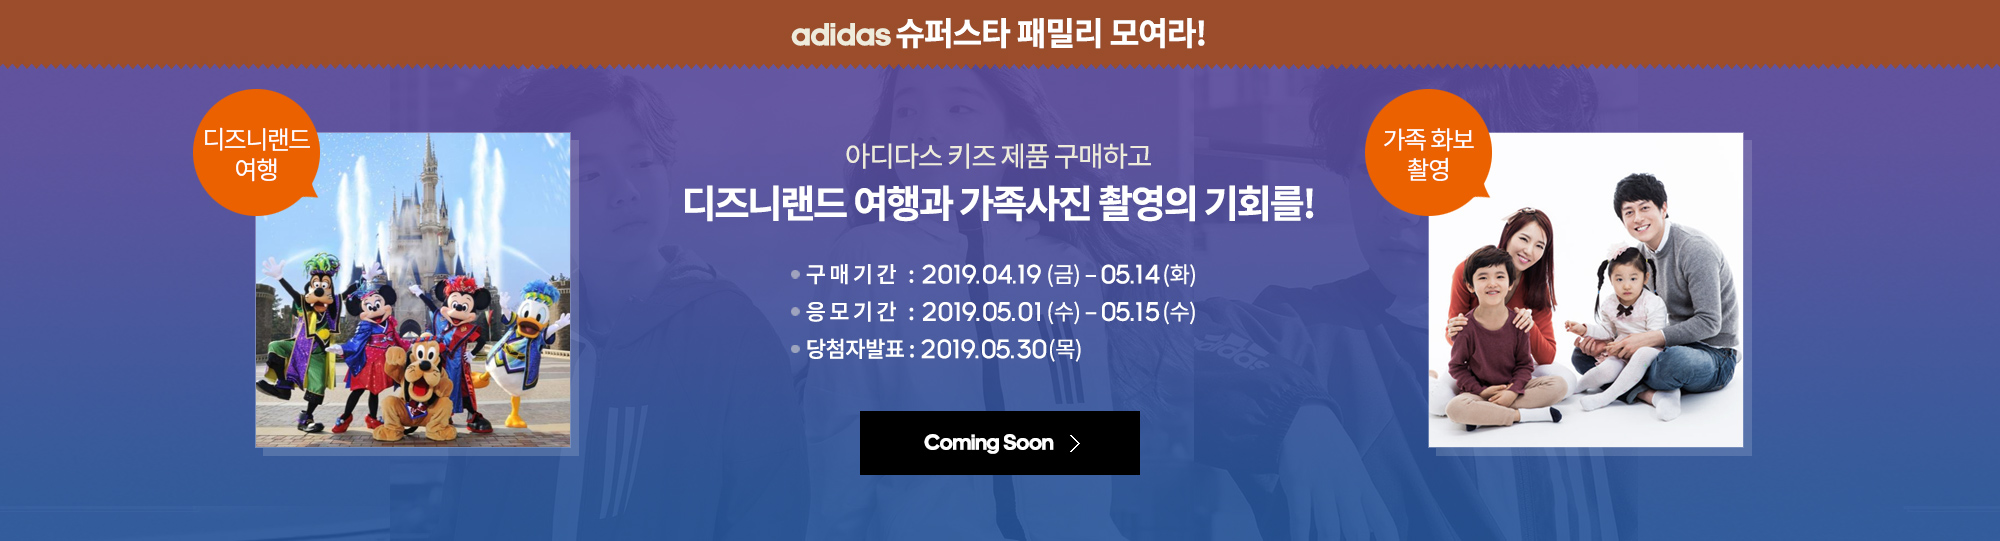
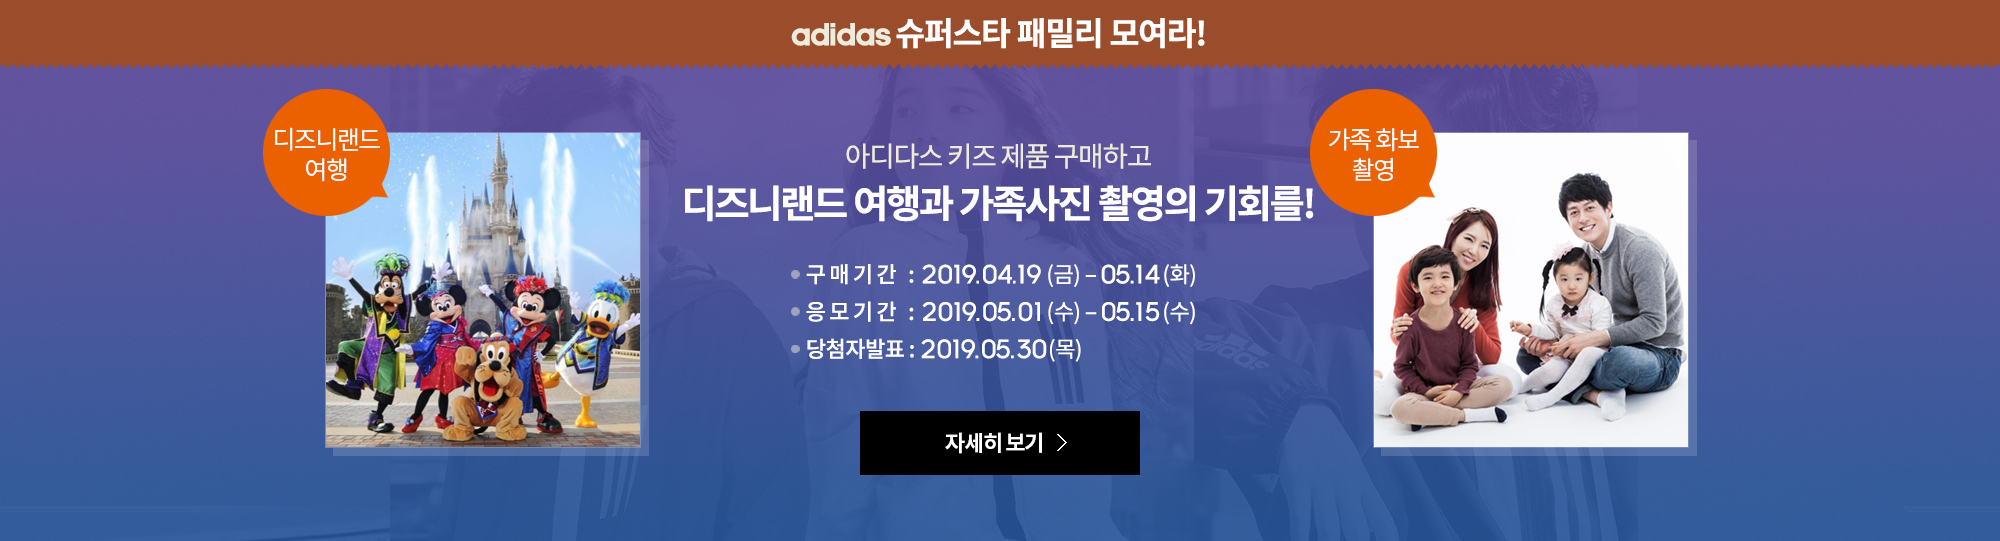
adi_cp_패밀리먼스 업댓

Changed region(s): [[0.093, 0.1479, 0.341, 0.8577], [0.651, 0.1479, 0.899, 0.8577], [0.465, 0.7985, 0.527, 0.8577]]

diff --git a/front/html/adidas/2019/event/familymonth/build/index.html b/front/html/adidas/2019/event/familymonth/build/index.html
@@ -1023,7 +1023,7 @@
 			
 				<div class="contain-section3">
 					<div class="contain-inner">
-						<span class="btn-link1"><a href="javascript:void(0)" >Comming Soon</a></span>
+						<span class="btn-link1"><a href="http://shop.adidas.co.kr/PF070202.action?EVENT_ID=6525" >자세히 보기</a></span>
 					</div>
 				</div>
 			

diff --git a/front/html/adidas/2019/event/familymonth/index.html b/front/html/adidas/2019/event/familymonth/index.html
@@ -1021,7 +1021,7 @@
 			
 				<div class="contain-section3">
 					<div class="contain-inner">
-						<span class="btn-link1"><a href="javascript:void(0)" >Comming Soon</a></span>
+						<span class="btn-link1"><a href="http://shop.adidas.co.kr/PF070202.action?EVENT_ID=6525" >자세히 보기</a></span>
 					</div>
 				</div>
 			

diff --git a/front/html/adidas/html/pn/2019Familymonth.html b/front/html/adidas/html/pn/2019Familymonth.html
@@ -18,7 +18,7 @@
 			
 				<div class="contain-section3">
 					<div class="contain-inner">
-						<span class="btn-link1"><a href="javascript:void(0)" >Comming Soon</a></span>
+						<span class="btn-link1"><a href="http://shop.adidas.co.kr/PF070202.action?EVENT_ID=6525" >자세히 보기</a></span>
 					</div>
 				</div>
 			
